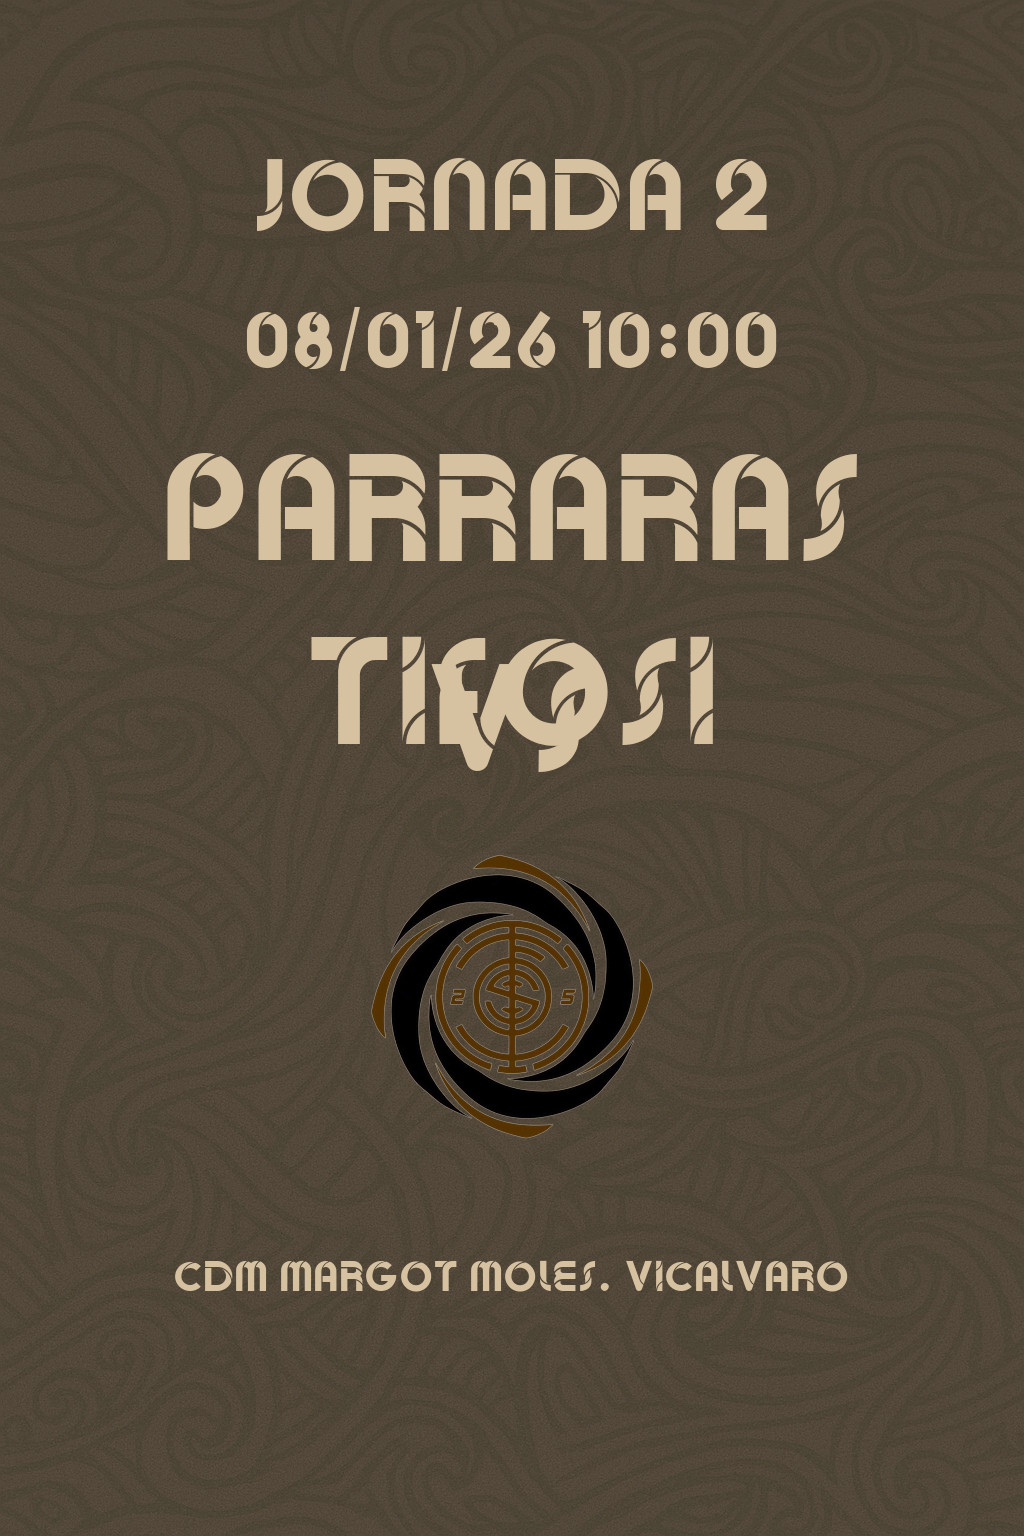
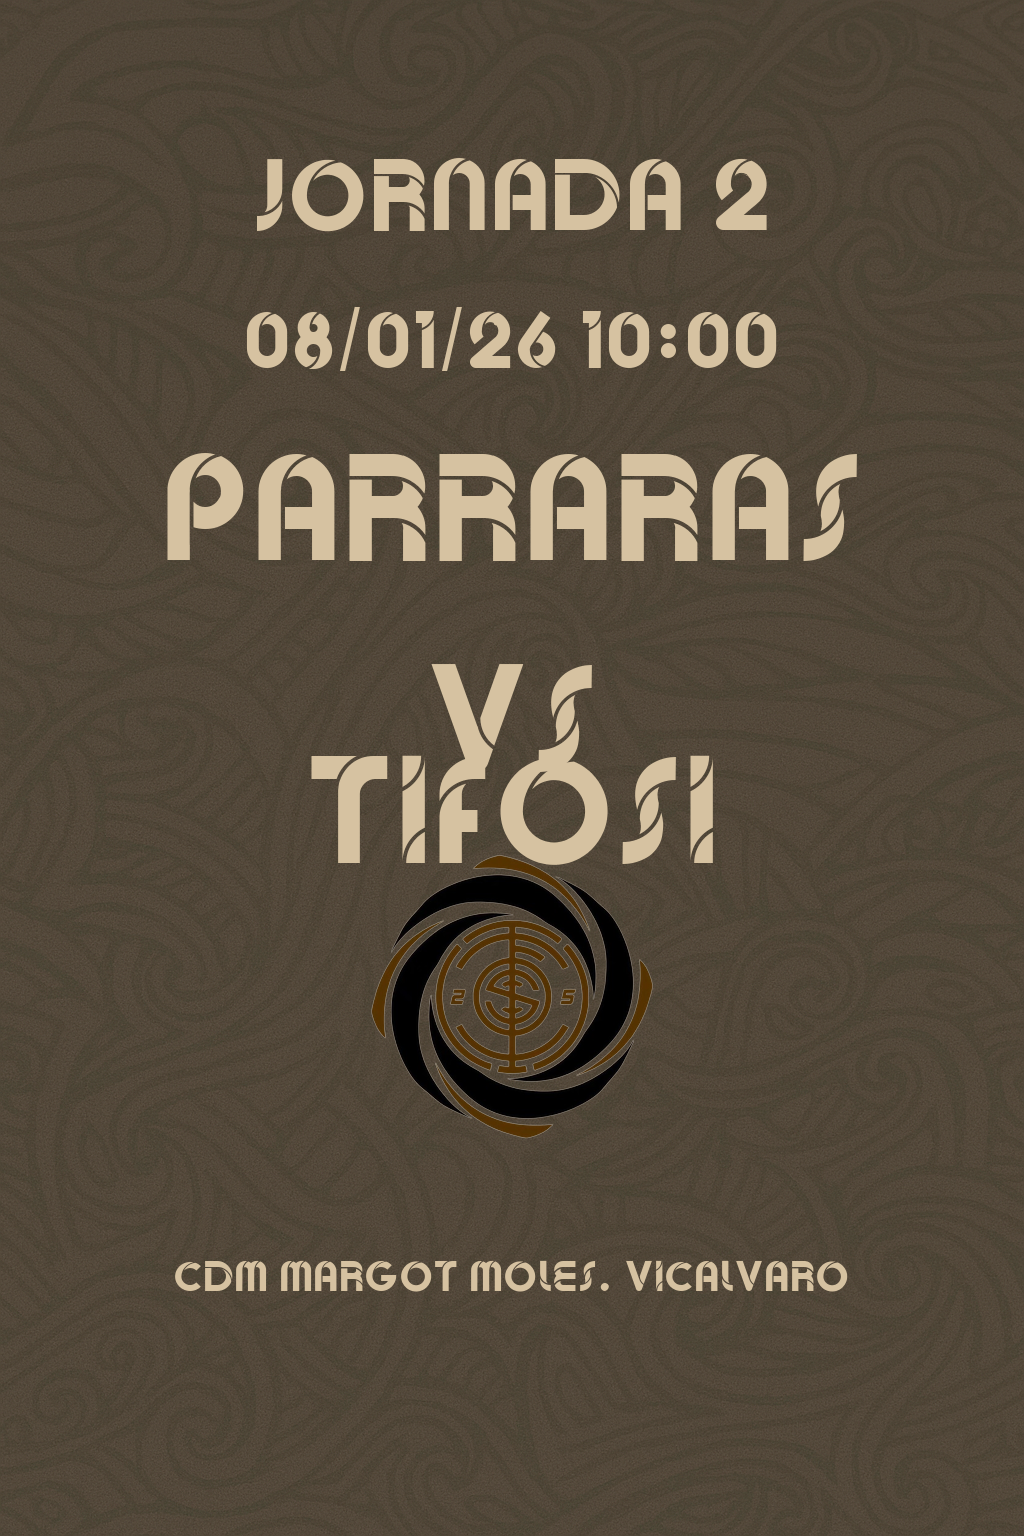
update web

Changed region(s): [[0.2812, 0.4062, 0.7188, 0.5625]]

diff --git a/image_generator.py b/image_generator.py
@@ -341,8 +341,8 @@ def generar_proximo(data):
     # Equipos en líneas separadas centradas
     spacing = int(alto * 0.06)
     center_text(draw, img, equipo_local.upper(), font_equipo, y_equipos - spacing, COLOR_BEIGE)
-    center_text(draw, img, "\nVS\n", font_equipo, y_equipos, COLOR_BEIGE)
-    center_text(draw, img, equipo_visitante.upper(), font_equipo, y_equipos + spacing, COLOR_BEIGE)
+    center_text(draw, img, "\nVS", font_equipo, y_equipos, COLOR_BEIGE)
+    center_text(draw, img, "\n" + equipo_visitante.upper(), font_equipo, y_equipos + spacing, COLOR_BEIGE)
 
     # =========================
     # ESCUDO
